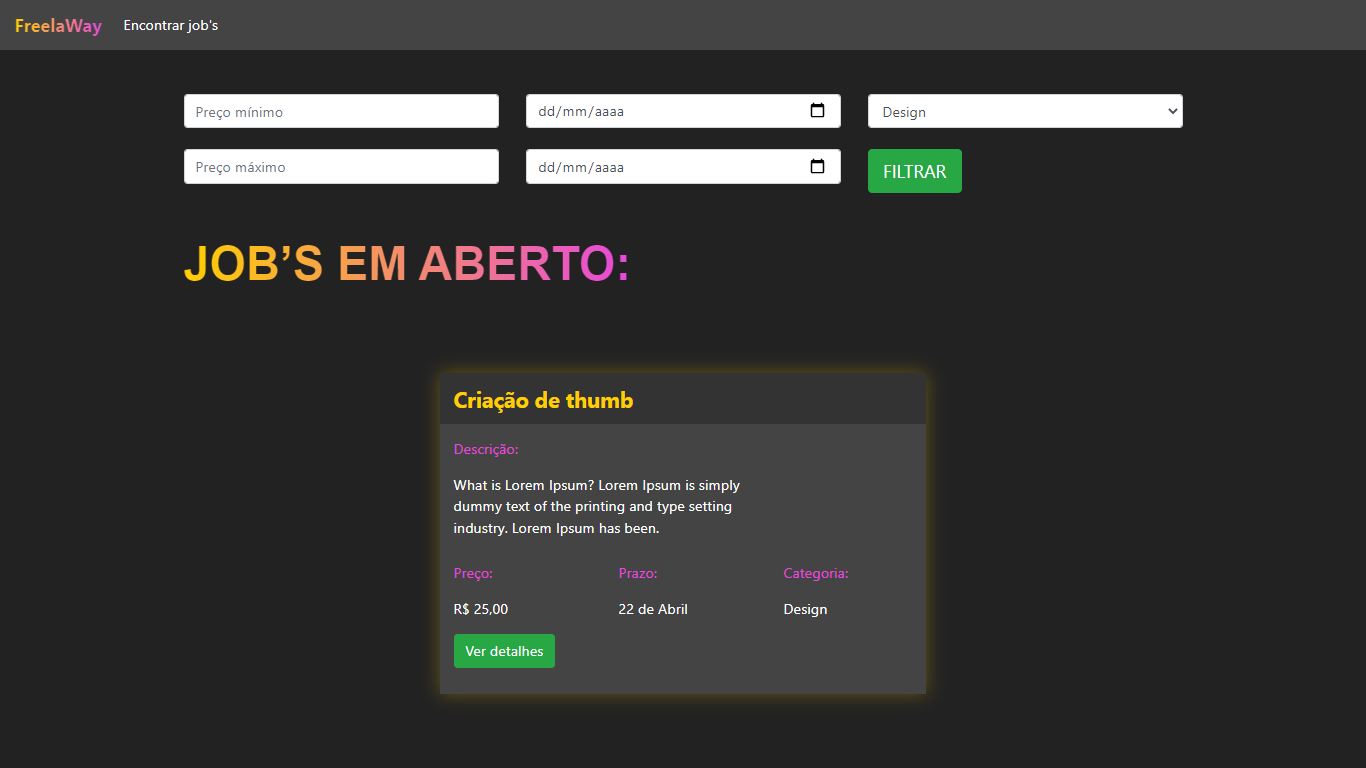
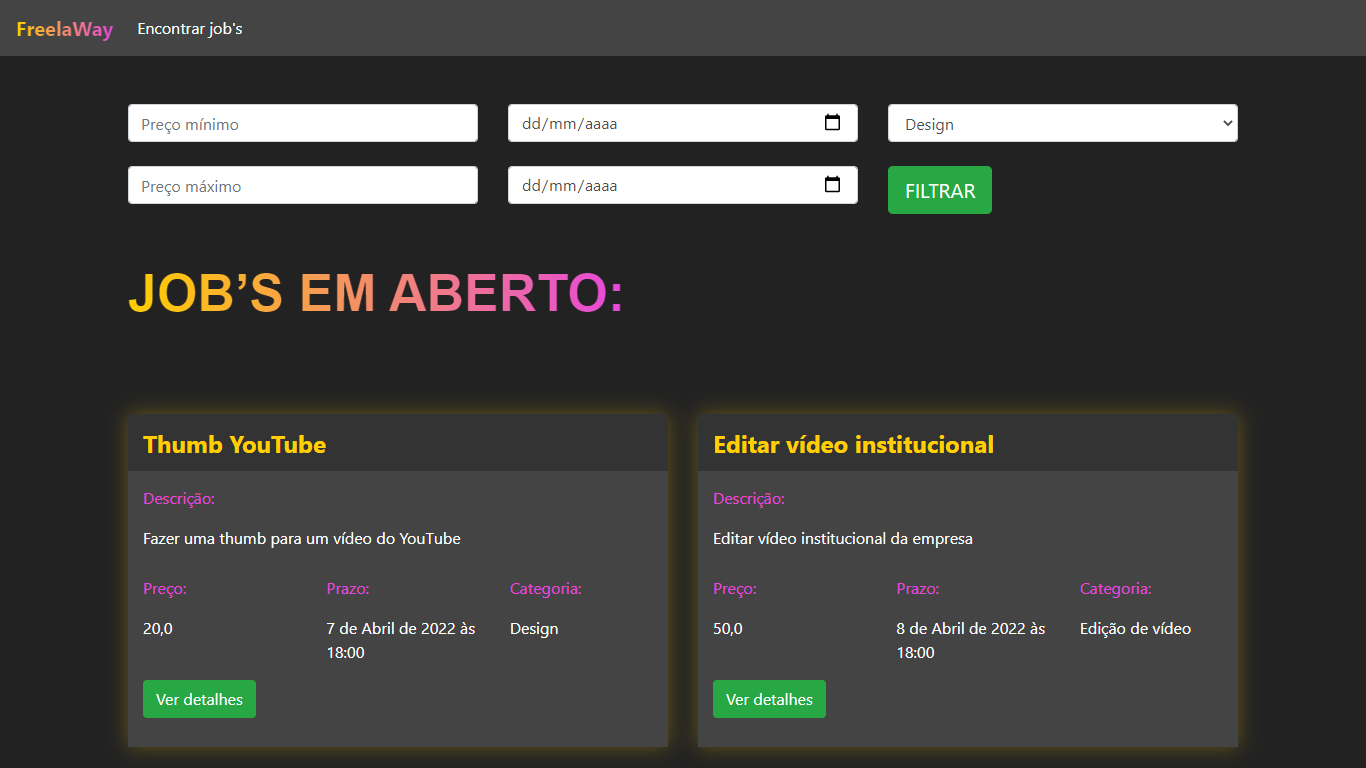
Carrega 'jobs' do banco de dados

diff --git a/jobs/templates/encontrar_jobs.html b/jobs/templates/encontrar_jobs.html
@@ -41,32 +41,36 @@
     <h2 class="titulo">JOB’S EM ABERTO:</h2>
     <div class="row justify-content-around">
 
-        <div class="col-6 row-card">
+        {% for job in jobs %}
 
+        <div class="col-6 row-card">
             <div class="card-job">
                 <div class="header-job">
-                    <h4 class="titulo-job">Criação de thumb</h4>
+                    <h4 class="titulo-job">{{job.titulo}}</h4>
                 </div>
                 <div class="body-job">
                     <p class="titulo-body">Descrição:</p>
                     <div style="width: 70%">
-                        <p>
-                            What is Lorem Ipsum? Lorem Ipsum is simply dummy text of the
-                            printing and type setting industry. Lorem Ipsum has been.
-                        </p>
+                        <p>{{job.descricao}}</p>
                     </div>
                     <div class="row">
                         <div class="col-4">
                             <p class="titulo-body">Preço:</p>
-                            <p>R$ 25,00</p>
+                            <p>{{job.preco}}</p>
                         </div>
                         <div class="col-4">
                             <p class="titulo-body">Prazo:</p>
-                            <p>22 de Abril</p>
+                            <p>{{job.prazo_entrega}}</p>
                         </div>
                         <div class="col-4">
                             <p class="titulo-body">Categoria:</p>
-                            <p>Design</p>
+                            <p>
+                                {% if job.categoria == 'D'%}
+                                Design
+                                {% else %}
+                                Edição de vídeo
+                                {% endif%}
+                            </p>
                         </div>
                     </div>
                     <button class="btn btn-success">Ver detalhes</button>
@@ -74,8 +78,9 @@
                     <br/>
                 </div>
             </div>
-
         </div>
+
+        {% endfor %}
 
     </div>
 

diff --git a/jobs/views.py b/jobs/views.py
@@ -1,5 +1,9 @@
 from django.shortcuts import render
 
+from jobs.models import Jobs
+
 
 def encontrar_jobs(request):
-    return render(request, 'encontrar_jobs.html')
+    if request.method == "GET":
+        jobs = Jobs.objects.filter(reservado=False)
+        return render(request, 'encontrar_jobs.html', {'jobs': jobs})
